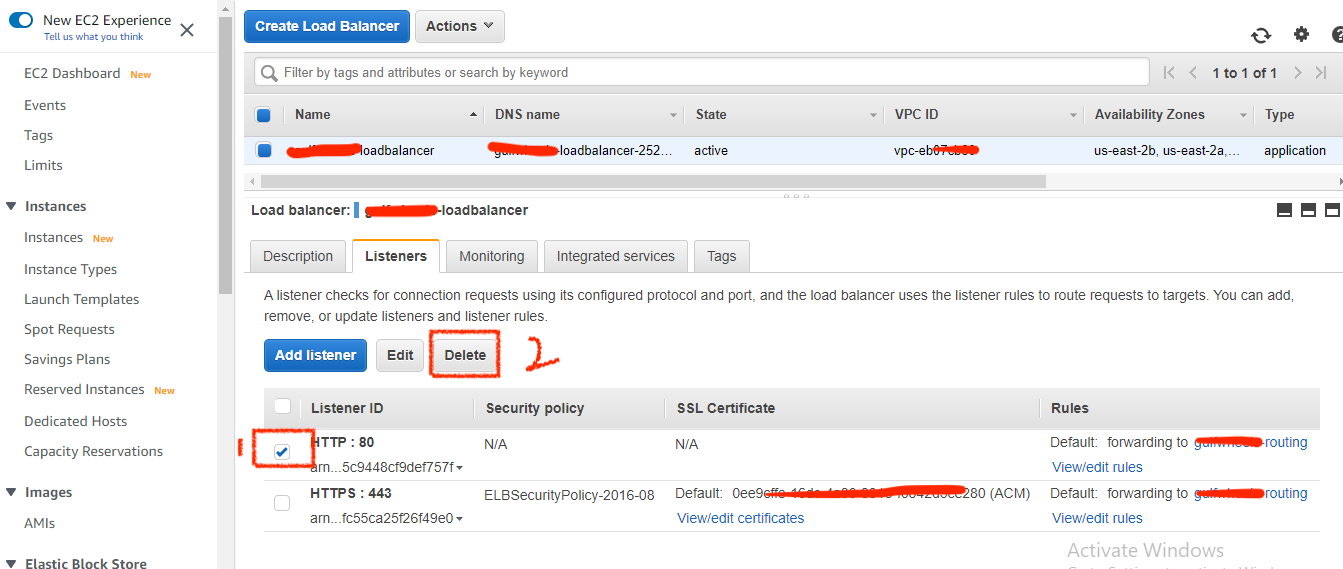
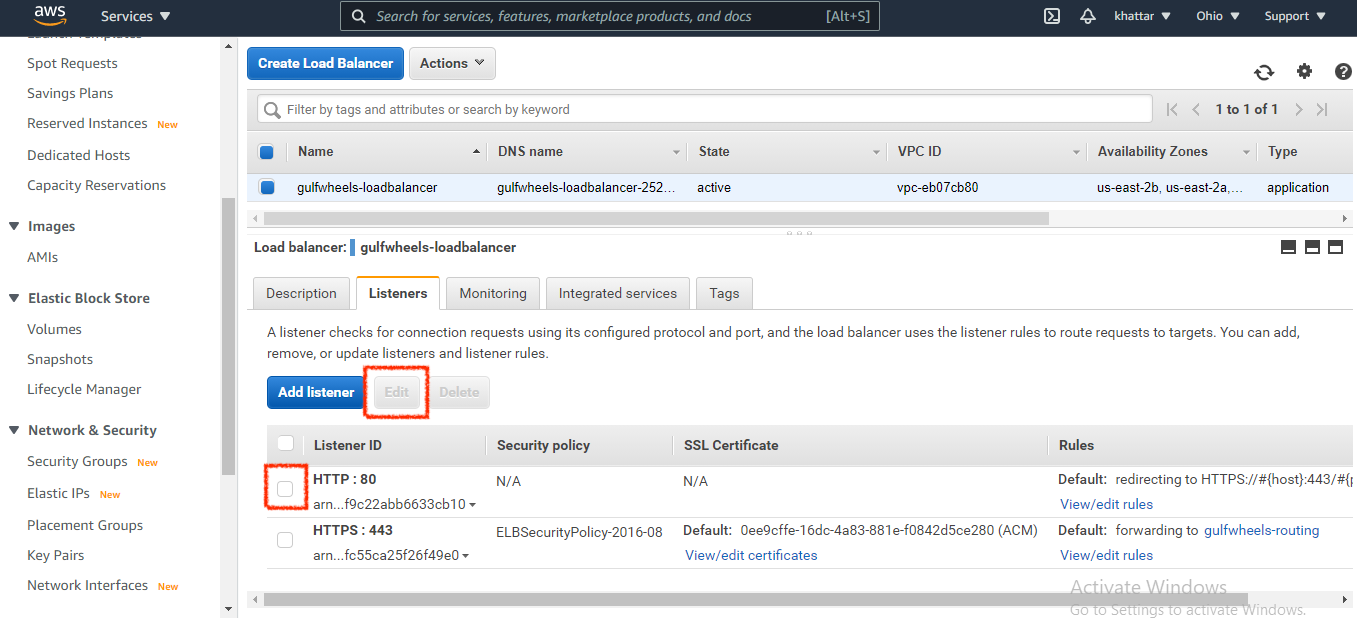
Add Redirect HTTP:80 to HTTPS:443

diff --git a/README.md b/README.md
@@ -112,7 +112,7 @@ ___
 ___
 
 ## Step 3: SSL Certificate (HTTPs)
-* ***Step 2.1: Create Certificate***
+* ***Step 3.1: Create Certificate***
   * Goto **Services** > **Certificate Manager**.
   * Under **Provision Certificate** click on **Getting Started**.
     ![Certificate Manager](/repo_screenshoots/step_3/certificate_manager.png)
@@ -131,41 +131,43 @@ ___
     * After status changed it will look something like this
       ![Certificate Verified](/repo_screenshoots/step_3/certificate-cleared.png)
   
-* ***Step 2.2: Configure Route53 for HTTPs***
+* ***Step 3.2: Configure Route53 for HTTPs***
   * Goto **Services** > **Route53**.
   * Create another **CNAME Record**, paste CNAME you copied without **YOUR_DOMAIN** and select **Record Type** ***CNAME-Routes traffic to another domain name and to some AWS Resources***  and toggle ***Alias switch*** and ***Set Alias to another record in this hosted zone*** next choose region and in last ***Choose Record*** ***YOUR_DOMAIN_NAME*** and click on Create Record.
     ![HTTPS CNAME Record](/repo_screenshoots/step_3/CNAME_HTTPs.png)
 
-* ***Step 2.3: Create Load Balancer***
+* ***Step 3.3: Create Load Balancer***
   * Goto **Services** > **EC2** > In Side Nav **Load Balancers**.
   * Click on **Create Load Balancer** and on next screen **Application Load Balancer** section click on **Create**.
     ![Load Balancer](/repo_screenshoots/step_3/load_balancer_page.png)
-  * **Step 2.3.1:** will be some basic configuration like **Name**, **Listener** & **Availability Zones**.
+  * **Step 3.3.1:** will be some basic configuration like **Name**, **Listener** & **Availability Zones**.
     ![Load Balancer Step 1](/repo_screenshoots/step_3/load_balancer_step_1.png)
     ![Load Balancer Step 1_1](/repo_screenshoots/step_3/load_balancer_step_1_1.png)
-  * **Step 2.3.2 Configure Security Settings:** From drop-down of **Certificate name** select **Your Certificate** you created in last step.
+  * **Step 3.3.2 Configure Security Settings:** From drop-down of **Certificate name** select **Your Certificate** you created in last step.
     ![Load Balancer Step 2](/repo_screenshoots/step_3/load_balancer_step_2.png)
-  * **Step 2.3.3 Configure Security Groups:** Select **application security** groups.
+  * **Step 3.3.3 Configure Security Groups:** Select **application security** groups.
     ![Load Balancer Step 3](/repo_screenshoots/step_3/load_balancer_step_3.png)
-  * **Step 2.3.4 Configure Routing:** Set **Name** as you like and leave other fields as they are and click on Next Register Targets.
+  * **Step 3.3.4 Configure Routing:** Set **Name** as you like and leave other fields as they are and click on Next Register Targets.
     ![Load Balancer Step 4](/repo_screenshoots/step_3/load_balancer_step_4.png)
-  * **Step 2.3.5 Register Targets:** Under **Instances** click on **Your Running Instance** and click on **Add To Registered**.
+  * **Step 3.3.5 Register Targets:** Under **Instances** click on **Your Running Instance** and click on **Add To Registered**.
     ![Load Balancer Step 5](/repo_screenshoots/step_3/load_balancer_step_5.png)
-  * **Step 2.3.6 Review:** Review all the settings you added
+  * **Step 3.3.6 Review:** Review all the settings you added
     ![Load Balancer Step 6](/repo_screenshoots/step_3/load_balancer_step_6.png)
     ![Load Balancer Step 7](/repo_screenshoots/step_3/load_balancer_step_7.png)
 
-* ***Step 2.4: Configure Route53 for HTTPs Again***
+* ***Step 3.4: Configure Route53 for HTTPs Again***
   * Goto **Services** > **Route53**.
   * Create another **A Record**, Leave **Name** **Empty** and set **Record Type** to **A-Route Traffic to an IPv4 address and some AWS Resources**. Check **Alias toggle** button. And select **Alias to Application and Classic Load Balancer** and next set **Your Region** that will show you available Load Balancers for that region select the **Load balancer you created** and Click **Create Record**
 
-* ***Step 2.5: Configure Route53 for HTTPs Again***
+* ***Step 3.5: Configure Route53 for HTTPs Again***
   * Now go to **EC2** > **Load Balancer** and select your load balancer instance and goto **Listener Tab**
-  * Now **Edit HTTP:80** ,**Delete Record** under **Default Actions** and click on **Add Action**, Select **Redirect To** and select **HTTPS** and **port 443** and click on **TICK** button to add record. Now click on **Update**. Thats all.
+  * Under **Default Actions** and click on **Add Action**, Select **Redirect To** and select **HTTPS** and **port 443** and click on **TICK** button to add record. Now click on **Update**. Thats all.
+  * After Adding **HTTPS** now its time to update **HTTP:80** so that any traffic that come to HTTP will automatically redirect to **HTTPS:443**
     ![Load Balancer Delete Record](/repo_screenshoots/step_3/remove-loadbalance-default-record-1.png)
     ![Load Balancer Delete Record 2](/repo_screenshoots/step_3/remove-loadbalance-default-record-2.png)
+    ![Load Balancer Delete Record 3](/repo_screenshoots/step_3/remove-loadbalance-default-record-3.png)
 
-* ***Step 2.6: Update Security Groups***
+* ***Step 3.6: Update Security Groups***
   * Now go to **EC2** > **YOUR_INSTANCE** > **Security** Tab > Click Link Under **Security Groups**
     ![Security Group Updating](/repo_screenshoots/step_3/security-groups-updation-https.png)
   * **Update Inbound Rules** for this **Security Group**
